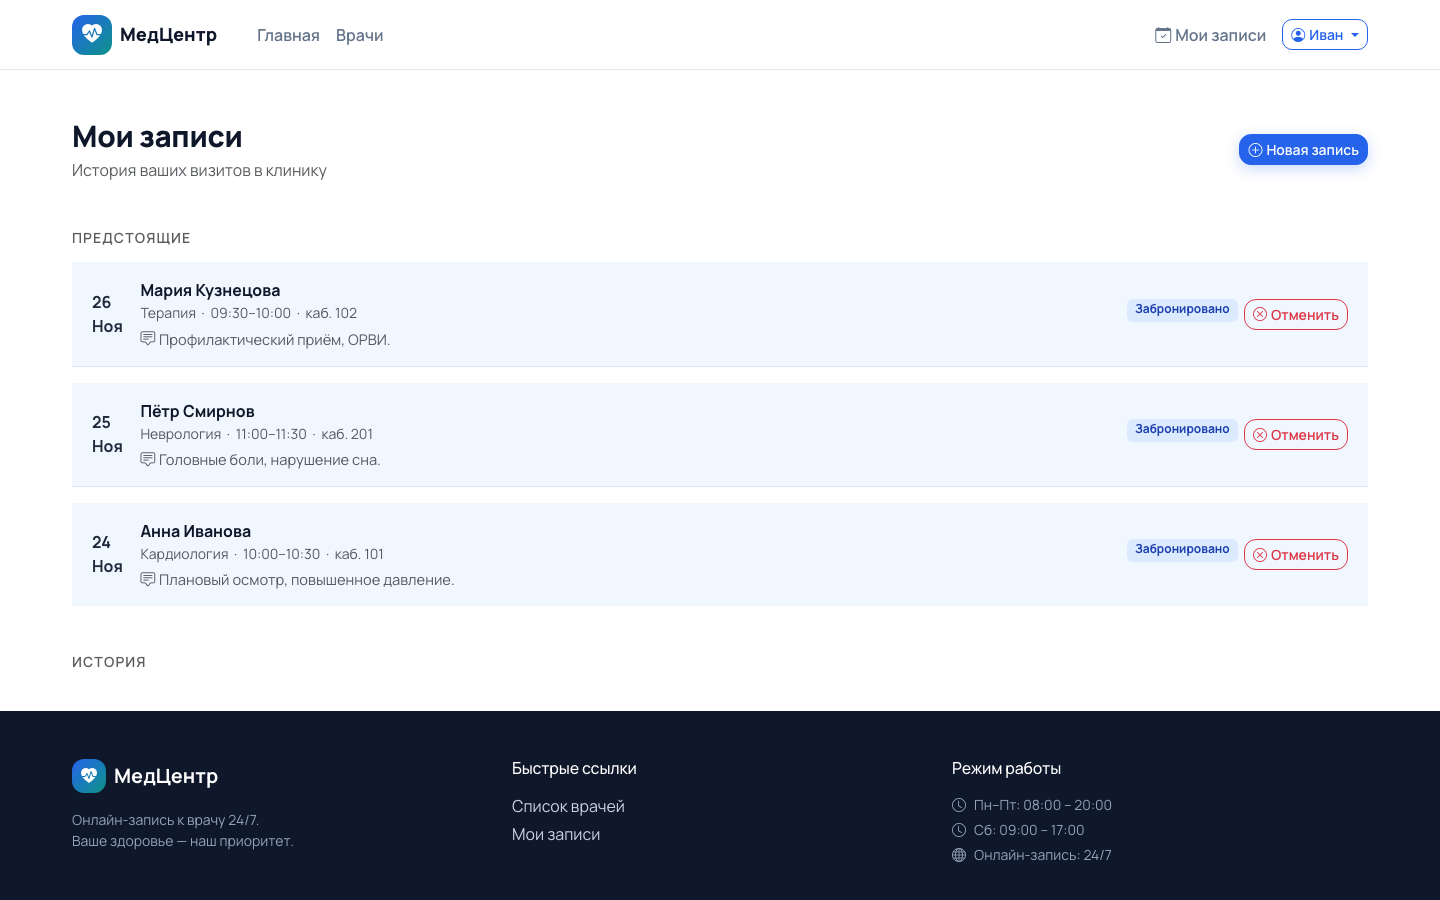
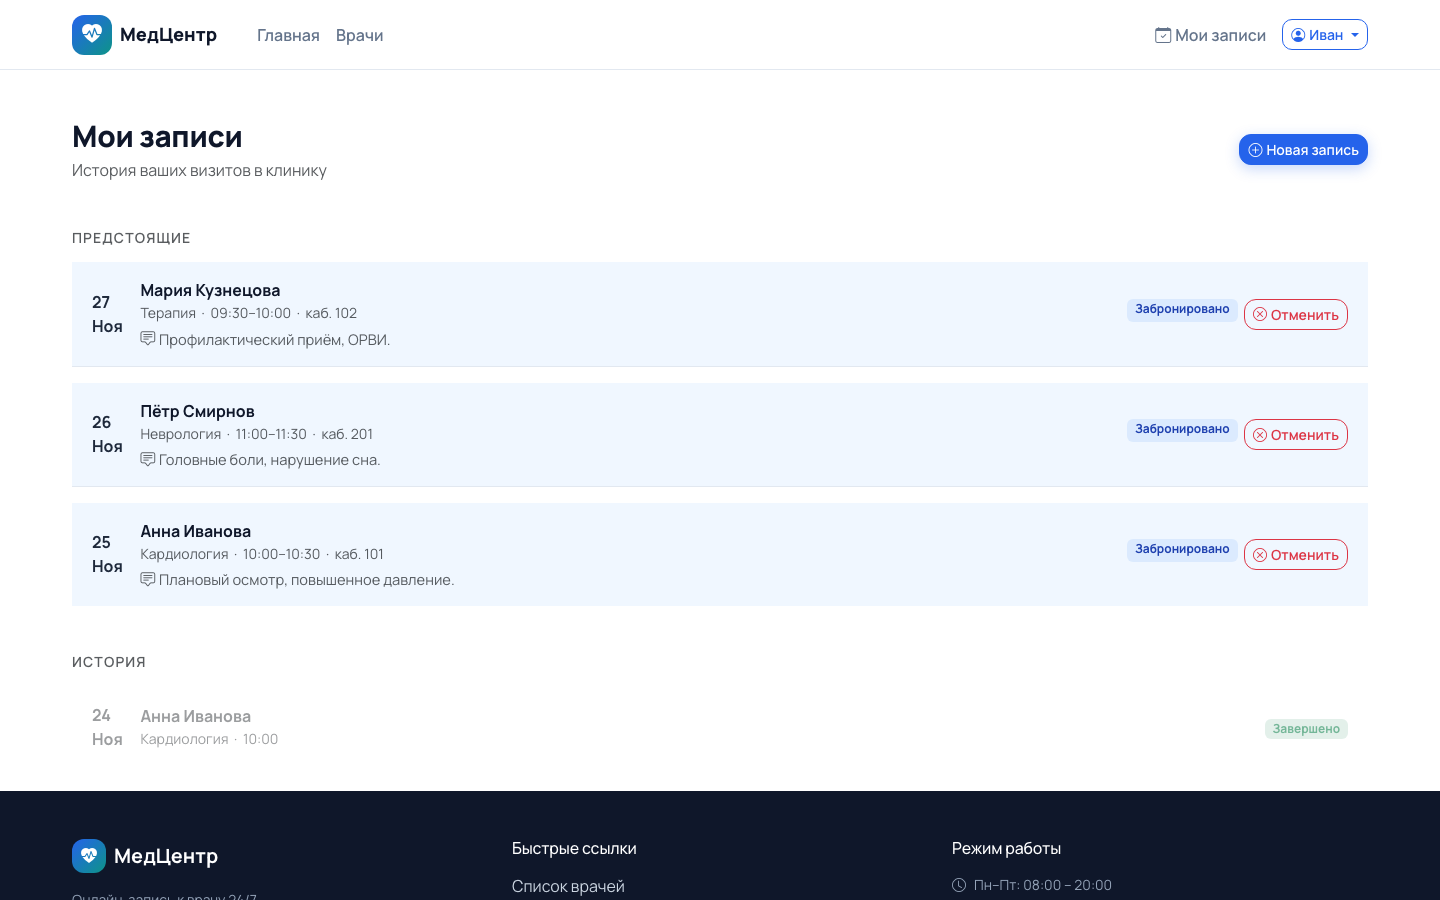
docs: refresh screenshots and demo run notes

Changed region(s): [[0.0, 0.7778, 1.0, 0.9956], [0.0312, 0.9956, 0.1875, 1.0]]

diff --git a/README.md b/README.md
@@ -97,7 +97,7 @@ python manage.py seed_demo --without-appointments
 python manage.py seed_demo --keep-legacy    # не удалять старые учётки @medcenter.local
 ```
 
-Команда идемпотентна: повторный запуск обновляет данные и не создаёт дубликатов. Старые демо-учётки от `create_demo_data` (`@medcenter.local`) удаляются автоматически, чтобы в списке врачей не было дублей.
+Команда идемпотентна: повторный запуск обновляет данные и не создаёт дубликатов. Активные демо-записи пациента пересоздаются, прошедшие помечаются завершёнными. Старые демо-учётки от `create_demo_data` (`@medcenter.local`) удаляются автоматически, чтобы в списке врачей не было дублей.
 
 ## Production-стенд
 
@@ -207,7 +207,7 @@ medical_booking/
 ## Тесты и качество
 
 ```bash
-make check       # ruff + black --check + 50 тестов
+make check       # ruff + black --check + 51 тест
 make format      # автоформатирование
 ```
 

diff --git a/docs/DEMO_GUIDE.md b/docs/DEMO_GUIDE.md
@@ -46,7 +46,7 @@ make seed       # пользователи, врачи, расписание, з
 - На главной и в списке врачей — 5 врачей без дублей.
 - Слоты есть на каждый из 7 дней; занятые и обеденные не показываются.
 - Запись создаётся, отображается у пациента и врача, отменяется.
-- `make check` — ruff, black и 50 тестов проходят.
+- `make check` — ruff, black и 51 тест проходят.
 - `make check-deploy` — сервисы `running`, HTTP 200, в логах нет traceback.
 
 ## Известные ограничения
